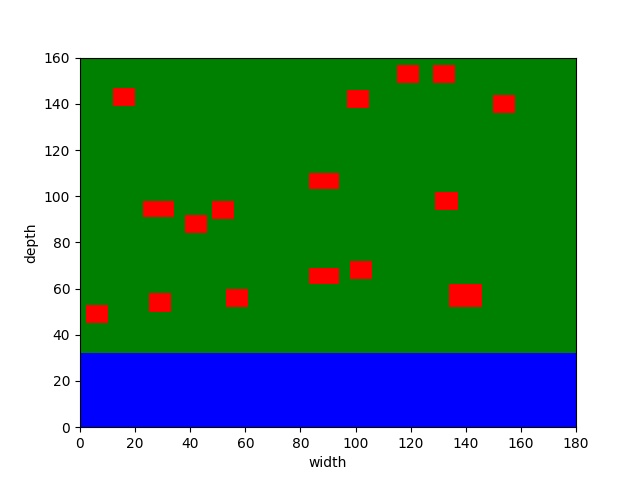
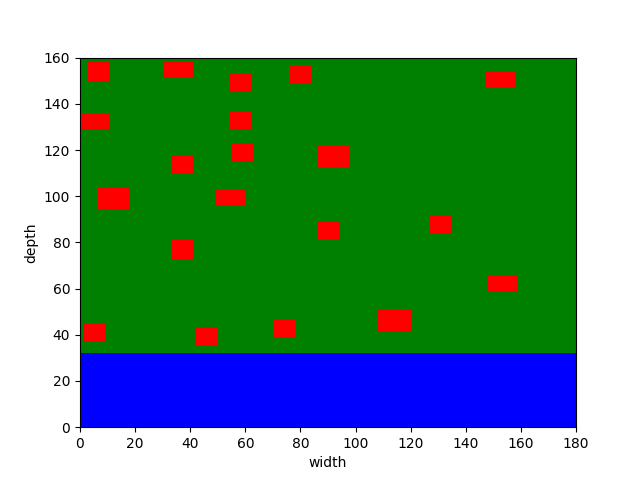
fixed the house movement problem

diff --git a/code/moving_hillclimber.py b/code/moving_hillclimber.py
@@ -12,6 +12,7 @@ class Moving_Hillclimber:
         self.houses = houses
         self.area = area
 
+
     def move_houses(self):
         current_changes = 0
 
@@ -36,11 +37,11 @@ class Moving_Hillclimber:
             # Get a random house from all houses
             moving_house = self.random_house(self.houses)
 
-            # !!!! reset the houses prices to their original price before calculating their new price increase
-            self.area.price_reset(self.houses)
-
             # Assigns a new valid place for a house in a certain direction.
             self.assign_random_direction(given_direction, moving_house)
+
+            # !!!! reset the houses prices to their original price before calculating their new price increase
+            self.area.price_reset(self.houses)
 
             # Calculate final houseprice
             self.area.houseprices(self.houses)
@@ -59,10 +60,9 @@ class Moving_Hillclimber:
                 best_state = copy.deepcopy(self.houses)
             else:
                 print("verkeerd")
-                self.undo_housemove(given_direction, moving_house)
-                self.area.houseprices(self.houses)
+                moving_house.corner_lowerleft = self.undo_housemove(given_direction, moving_house)
 
-            # current_changes += 1
+            # current_changes += 1?
 
         # Final outcome
         self.area.load_houses(best_state)
@@ -79,6 +79,7 @@ class Moving_Hillclimber:
         
         return random_house
       
+
     def random_direction(self):
         """
          Returns random coordinates for a random direction
@@ -88,6 +89,7 @@ class Moving_Hillclimber:
         random_direction = random.choice(direction)
 
         return random_direction
+
 
     def return_new_coordinates(self, random_direction, random_house):
         """
@@ -122,11 +124,13 @@ class Moving_Hillclimber:
         moving_house.corner_lowerleft = self.return_new_coordinates(random_direction, moving_house)
 
         # Check if the newly assigned coordinates are valid, if not assign new coordinates
-        while self.area.invalid(moving_house, self.houses) or self.area.overlap(moving_house, self.houses):
-            moving_house.corner_lowerleft = self.return_new_coordinates(random_direction, moving_house)
+        if self.area.invalid(moving_house, self.houses) or self.area.overlap(moving_house, self.houses):
+            # return house to original position
+            moving_house.corner_lowerleft = self.undo_housemove(random_direction, moving_house)
 
         return moving_house
      
+
     def undo_housemove(self, random_direction, random_house):
 
         """
@@ -149,6 +153,6 @@ class Moving_Hillclimber:
             random_house_coordinates = [random_house.corner_lowerleft[0] - 1, random_house.corner_lowerleft[1]]
 
         # Change the coordinates of the randomly selected house
-        random_house.corner_lowerleft = random_house_coordinates
+        # random_house.corner_lowerleft = random_house_coordinates
 
-        return random_house
+        return random_house_coordinates

diff --git a/code/annealing.py b/code/annealing.py
@@ -22,7 +22,7 @@ class Simulated_Annealing(Moving_Hillclimber):
         """
 
         # Simulated Annealing Parameters
-        temp = 1
+        temp = 30
         final_temp = 0.1    
         alpha = 0.01
 
@@ -34,9 +34,9 @@ class Simulated_Annealing(Moving_Hillclimber):
 
         while temp > final_temp:
 
-            # move a random house in this state
             for change in range(self.changes):
                     
+                # make n changes to the positions of random houses
                 given_direction = self.random_direction()
                 moving_house = self.random_house(self.houses)
                 self.assign_random_direction(given_direction, moving_house)
@@ -69,12 +69,12 @@ class Simulated_Annealing(Moving_Hillclimber):
             # reset the house prices
             self.area.price_reset(self.houses)
             # print(solution_totalprice)
-            y_axes.append(solution_totalprice)
+            # y_axes.append(solution_totalprice)
 
             # plt.subplot(131)
             # plt.plot(y_axes)
             # plt.savefig('../plots/simulated_annealing.png')
         
-            self.area.load_houses(solution)
+        self.area.load_houses(solution)
 
         self.area.write_output(solution)

diff --git a/code/main.py b/code/main.py
@@ -85,25 +85,12 @@ for maison in range(int(total_maisons)):
 # Just comment out the below lines when simulated annealing is not needed 
 # when using this algorithm comment out everything below the -----
 
-# changes = input("how many changes per random state do you want to make: ")
-# while not changes.isdigit():
-#    changes = input("Insert number of changes: ")
+changes = input("how many changes per random state do you want to make: ")
+while not changes.isdigit():
+   changes = input("Insert number of changes: ")
 
-# changes = int(changes)
-# simulated_annealing = Simulated_Annealing(changes, all_houses, area)
-# simulated_annealing.simulate()
+changes = int(changes)
+simulated_annealing = Simulated_Annealing(changes, all_houses, area)
+simulated_annealing.simulate()
 
 # -------------------------------------------------------------------
-
-
-# # randomly assign the invalid placed houses until a valid state is reached
-# area.randomly_assign_houses(all_houses)
-
-# # sent house info to graph
-# area.load_houses(all_houses)
-
-# # Calculate final houseprice
-# area.houseprices(all_houses)
-
-# # Writing output file
-# area.write_output(all_houses)

diff --git a/code/graph.py b/code/graph.py
@@ -96,7 +96,11 @@ class Graph():
             water_boxes.append(water_box)
 
         # check for overlap between edges graph and houses and save in list
-        if housebox1.overlaps(graph_box):
+        # if graph_box.overlaps(housebox1):
+        #     return True
+
+        # check if overlap with border of the map
+        if self.check_borders(house):
             return True
 
         # check for intersection between water areas and houses and save in list
@@ -256,5 +260,17 @@ class Graph():
                 house.price = 399000
             elif isinstance(house, Singlehouse):
                 house.price = 285000
+
+
+    def check_borders(self, house):
+        """
+            Returns true if house placement is on top of a border of the graph
+        """
+        house_corners = [house.corner_lowerleft, house.return_upperleft(house), house.return_upperright(house), house.return_lowerright(house)]
+        for corners in house_corners:
+            for corner in corners:
+                if corner < 0 or corner > 180 or corner > 160:
+                    return True
+        return False 
 
             
